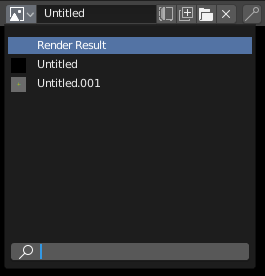
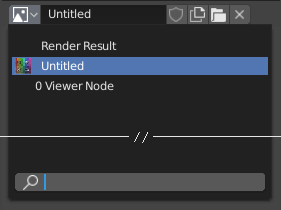
UI data-block: update screenshots del unused
git-svn-id: https://svn.blender.org/svnroot/bf-manual/trunk@5529 c4de1f47-6596-e411-a384-0024e86c2797

diff --git a/blender_docs/manual/interface/controls/buttons/fields.rst b/blender_docs/manual/interface/controls/buttons/fields.rst
@@ -28,9 +28,9 @@ Number Fields
 
 Number fields store values and units.
 
-First type of number field shows triangles pointing left (◂) and right (▸)
-on the sides of the field when mouse pointer is on top of the field.
-Second field type sliders have a colored bar in the background
+First type of number field shows triangles pointing left (<) and right (>)
+on the sides of the field when mouse pointer is over the field.
+Sliders the second number field type have a colored bar in the background
 to illustrate value over a range, e.g. percentage values.
 
 The value can be edited in several ways:
@@ -42,7 +42,7 @@ Incremental Steps
 Dragging
    To change the value with mouse, hold down :kbd:`LMB` and drag to left or right.
 
-      Hold :kbd:`Ctrl` to snap to the discrete steps while dragging or :kbd:`Shift` for precision input.
+   Hold :kbd:`Ctrl` to snap to the discrete steps while dragging or :kbd:`Shift` for precision input.
 
 Keyboard Input
    Press :kbd:`LMB` or :kbd:`Return` to enter value by typing it with keyboard.

diff --git a/blender_docs/manual/interface/controls/templates/data_block.rst b/blender_docs/manual/interface/controls/templates/data_block.rst
@@ -52,11 +52,16 @@ Sometimes there is a :ref:`list <ui-list-view>` of applied data-blocks
 Preview
 =======
 
-In the Tool Shelf is a version of the data-block menu with a bigger preview.
-
 .. figure:: /images/interface_controls_templates_data-block_preview.png
+   :align: right
 
    The Data-Block menu with preview.
+
+In the Tool Settings is a version of the data-block menu with a bigger preview.
+
+.. container:: lead
+
+   .. clear
 
 
 .. rename to selector?
